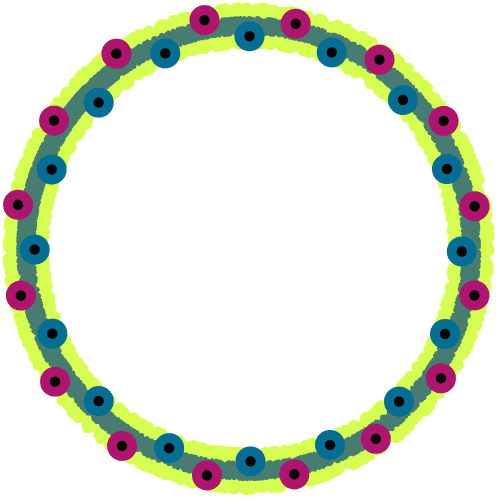
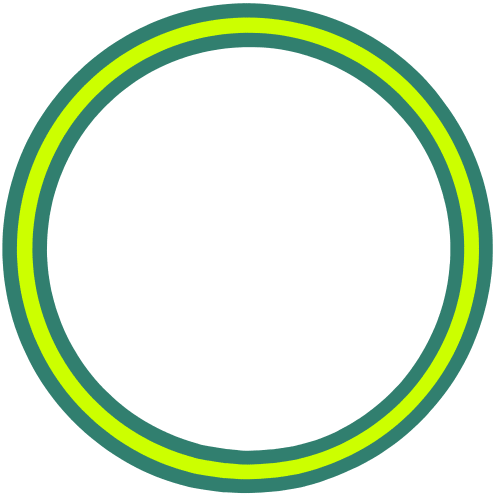
Replace seasonal charged orbs with the originals (#1063)

Changed region(s): [[0.0, 0.0, 0.99, 0.99]]

diff --git a/src/_common/animation/slideshow/sheets.ts b/src/_common/animation/slideshow/sheets.ts
@@ -57,9 +57,10 @@ export const sheetChargeOrbBottom = new ImgSlideshow({
 
 export const sheetChargeOrbTop = new ImgSlideshow({
 	asset: assetChargeOrbTop,
-	assetWidth: 2500,
+	assetWidth: 2000,
 	assetHeight: 500,
-	frames: 5,
+	frames: 4,
+	blankFrames: 2,
 	fps: 6,
 });
 
